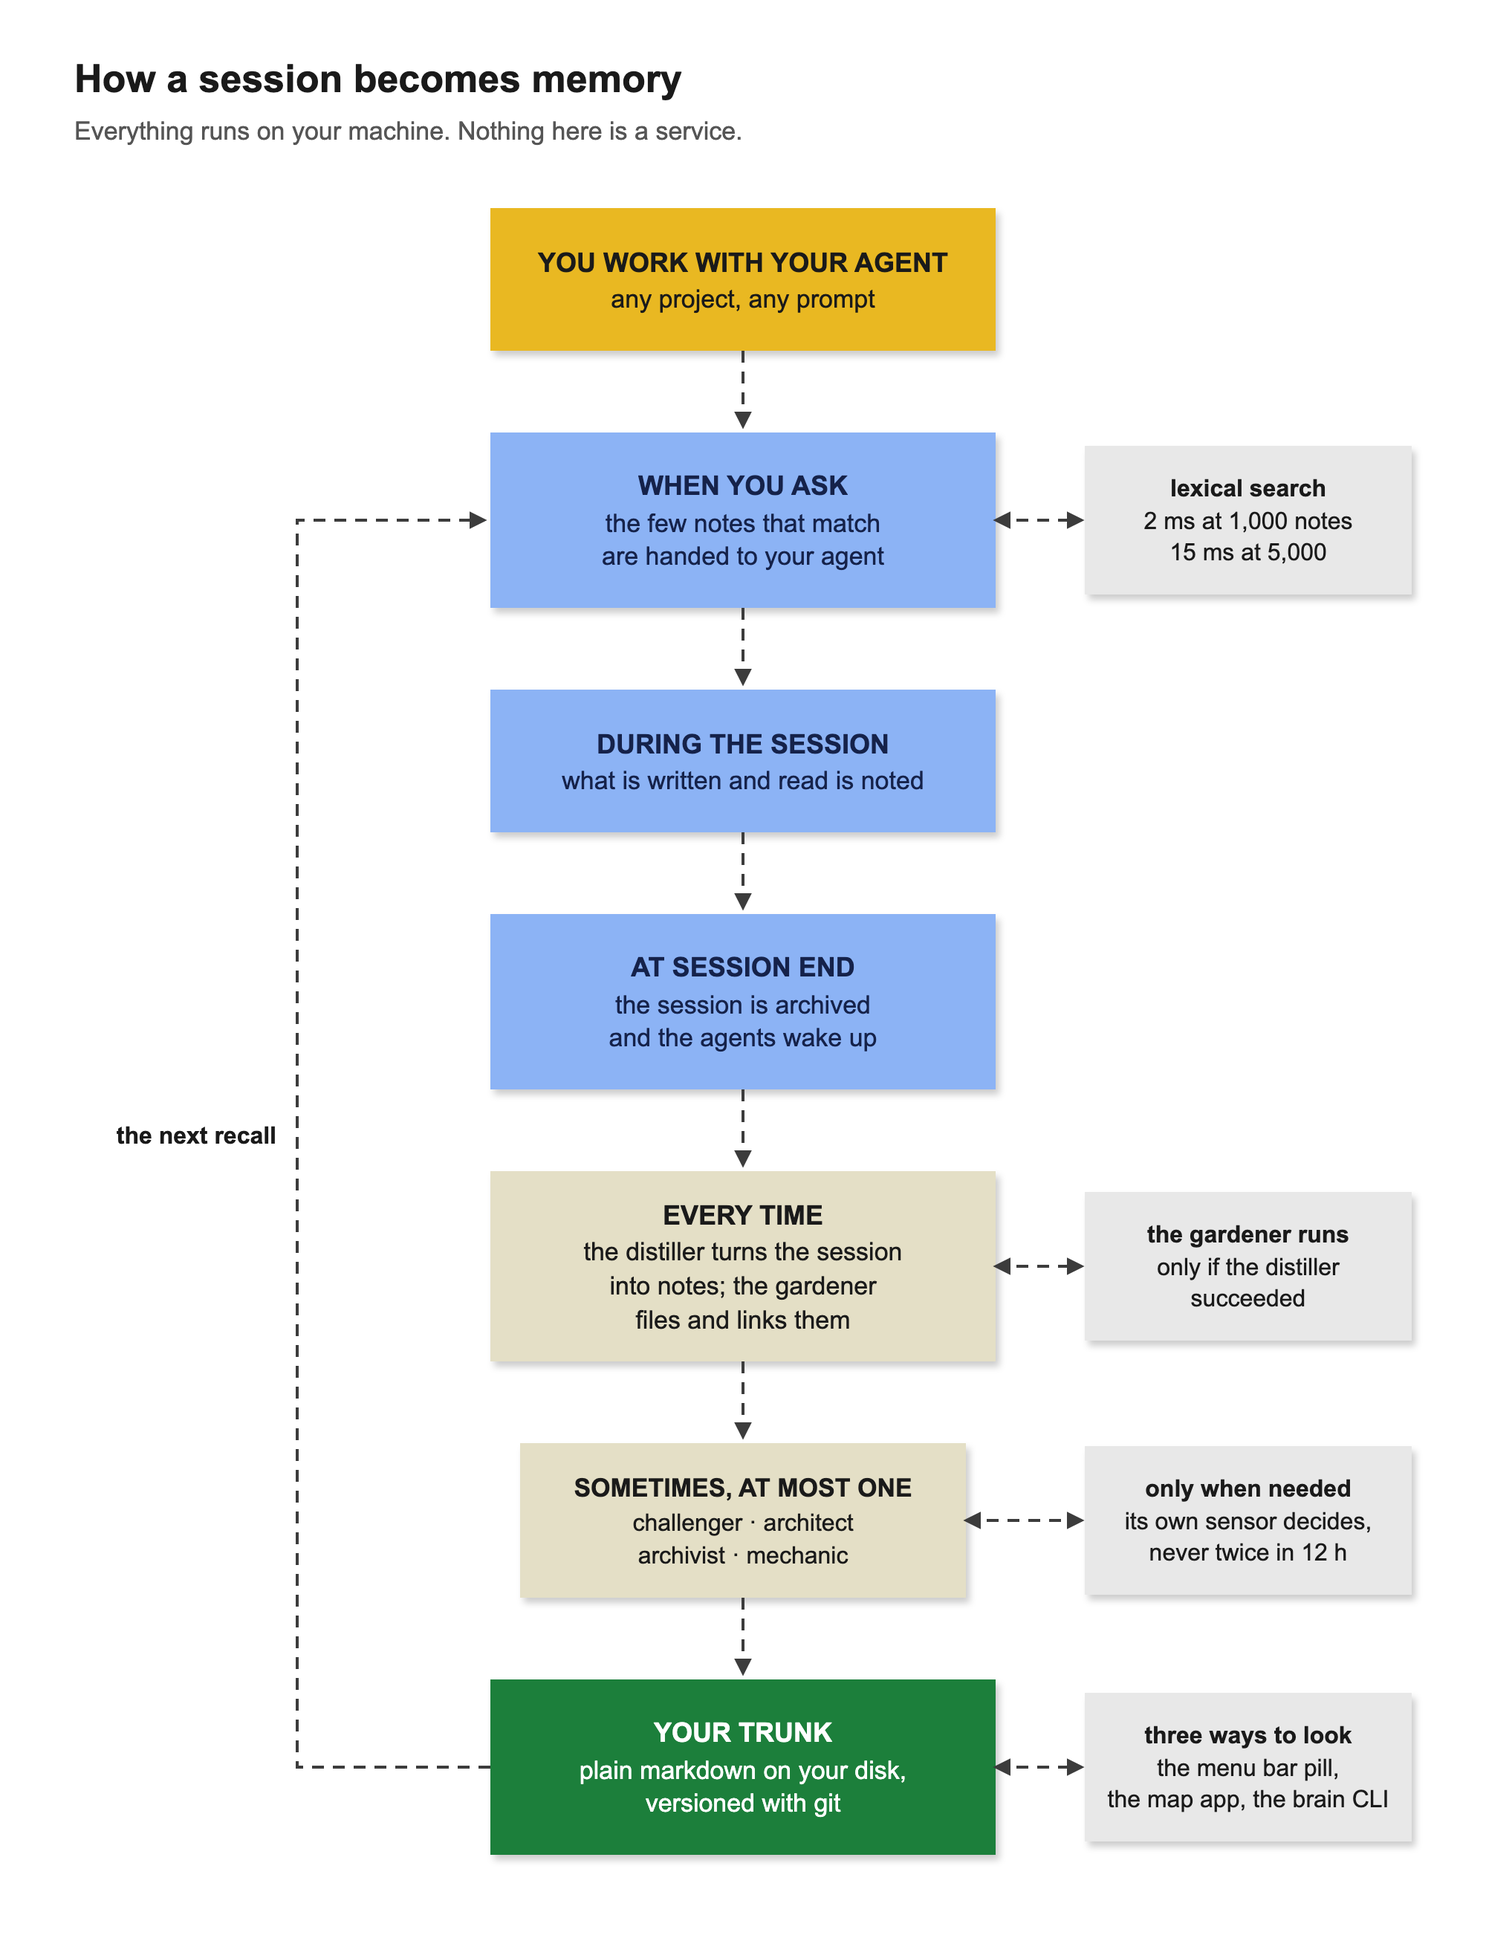
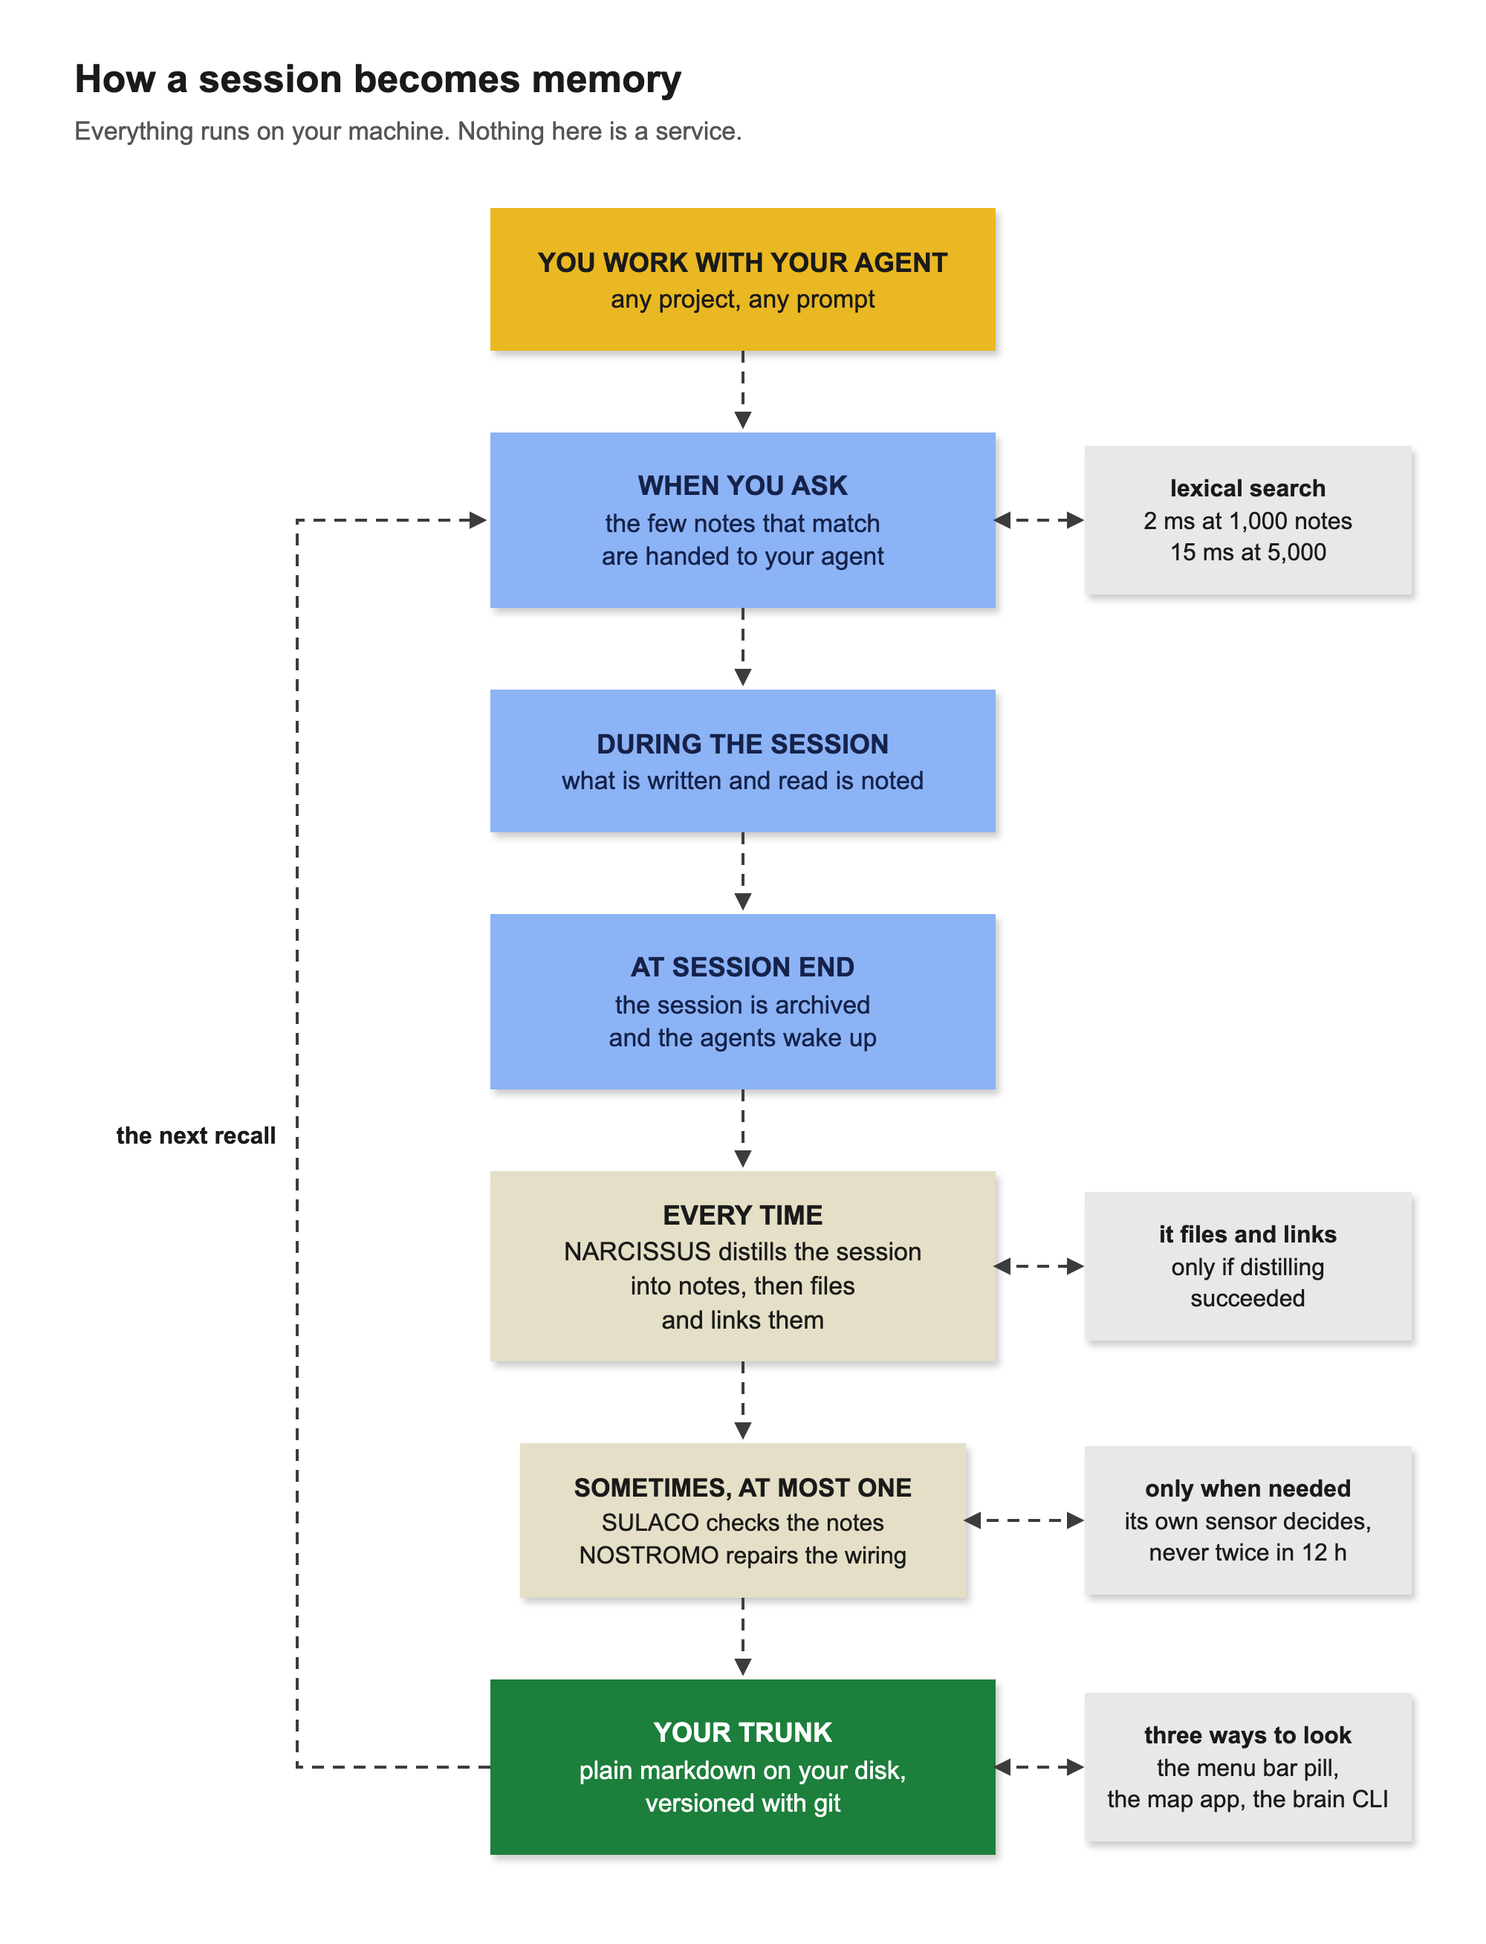
docs: the diagram names the agents by their ships (NARCISSUS, SULACO, NOSTROMO)
The boxes and the README's alt text said distiller, gardener, challenger,
architect, archivist, mechanic: role names the rest of the repo no longer
uses. agents/ calls them by ship, so the diagram does too.

Changed region(s): [[0.372, 0.6193, 0.62, 0.6812], [0.775, 0.6193, 0.899, 0.6812], [0.403, 0.7741, 0.62, 0.805]]

diff --git a/docs/media/src/architecture.html b/docs/media/src/architecture.html
@@ -16,5 +16,5 @@
     </marker>
   </defs>
   <rect width="1000" height="1308" rx="14" fill="#FFFFFF"/>
-  <text x="50" y="62" text-anchor="start" font-size="26" font-weight="700" fill="#1A1A1A">How a session becomes memory</text><text x="50" y="94" text-anchor="start" font-size="17" font-weight="400" fill="#555555">Everything runs on your machine. Nothing here is a service.</text><rect x="330" y="140" width="340" height="96" fill="#E9B824" filter="url(#ombre)"/><text x="500" y="183" text-anchor="middle" font-size="18" font-weight="700" fill="#1A1A1A">YOU WORK WITH YOUR AGENT</text><text x="500" y="207" text-anchor="middle" font-size="17" font-weight="400" fill="#1A1A1A">any project, any prompt</text><path d="M500,236 V287" fill="none" stroke="#3C3C3C" stroke-width="2" stroke-dasharray="8 6" marker-end="url(#pointe)"/><rect x="330" y="291" width="340" height="118" fill="#8CB3F5" filter="url(#ombre)"/><text x="500" y="333" text-anchor="middle" font-size="18" font-weight="700" fill="#15224A">WHEN YOU ASK</text><text x="500" y="358" text-anchor="middle" font-size="17" font-weight="400" fill="#15224A">the few notes that match</text><text x="500" y="380" text-anchor="middle" font-size="17" font-weight="400" fill="#15224A">are handed to your agent</text><rect x="730" y="300" width="220" height="100" fill="#E8E8E8" filter="url(#ombre)"/><text x="840" y="334" text-anchor="middle" font-size="16" font-weight="700" fill="#1A1A1A">lexical search</text><text x="840" y="356" text-anchor="middle" font-size="16" font-weight="400" fill="#1A1A1A">2 ms at 1,000 notes</text><text x="840" y="377" text-anchor="middle" font-size="16" font-weight="400" fill="#1A1A1A">15 ms at 5,000</text><path d="M670,350 H728" fill="none" stroke="#3C3C3C" stroke-width="2" stroke-dasharray="8 6" marker-start="url(#pointe)" marker-end="url(#pointe)"/><path d="M500,409 V460" fill="none" stroke="#3C3C3C" stroke-width="2" stroke-dasharray="8 6" marker-end="url(#pointe)"/><rect x="330" y="464" width="340" height="96" fill="#8CB3F5" filter="url(#ombre)"/><text x="500" y="507" text-anchor="middle" font-size="18" font-weight="700" fill="#15224A">DURING THE SESSION</text><text x="500" y="531" text-anchor="middle" font-size="17" font-weight="400" fill="#15224A">what is written and read is noted</text><path d="M500,560 V611" fill="none" stroke="#3C3C3C" stroke-width="2" stroke-dasharray="8 6" marker-end="url(#pointe)"/><rect x="330" y="615" width="340" height="118" fill="#8CB3F5" filter="url(#ombre)"/><text x="500" y="657" text-anchor="middle" font-size="18" font-weight="700" fill="#15224A">AT SESSION END</text><text x="500" y="682" text-anchor="middle" font-size="17" font-weight="400" fill="#15224A">the session is archived</text><text x="500" y="704" text-anchor="middle" font-size="17" font-weight="400" fill="#15224A">and the agents wake up</text><path d="M500,733 V784" fill="none" stroke="#3C3C3C" stroke-width="2" stroke-dasharray="8 6" marker-end="url(#pointe)"/><rect x="330" y="788" width="340" height="128" fill="#E4DFC6" filter="url(#ombre)"/><text x="500" y="824" text-anchor="middle" font-size="18" font-weight="700" fill="#1A1A1A">EVERY TIME</text><text x="500" y="848" text-anchor="middle" font-size="17" font-weight="400" fill="#1A1A1A">the distiller turns the session</text><text x="500" y="871" text-anchor="middle" font-size="17" font-weight="400" fill="#1A1A1A">into notes; the gardener</text><text x="500" y="894" text-anchor="middle" font-size="17" font-weight="400" fill="#1A1A1A">files and links them</text><rect x="730" y="802" width="220" height="100" fill="#E8E8E8" filter="url(#ombre)"/><text x="840" y="836" text-anchor="middle" font-size="16" font-weight="700" fill="#1A1A1A">the gardener runs</text><text x="840" y="858" text-anchor="middle" font-size="16" font-weight="400" fill="#1A1A1A">only if the distiller</text><text x="840" y="879" text-anchor="middle" font-size="16" font-weight="400" fill="#1A1A1A">succeeded</text><path d="M670,852 H728" fill="none" stroke="#3C3C3C" stroke-width="2" stroke-dasharray="8 6" marker-start="url(#pointe)" marker-end="url(#pointe)"/><path d="M500,916 V967" fill="none" stroke="#3C3C3C" stroke-width="2" stroke-dasharray="8 6" marker-end="url(#pointe)"/><rect x="350" y="971" width="300" height="104" fill="#E4DFC6" filter="url(#ombre)"/><text x="500" y="1007" text-anchor="middle" font-size="17" font-weight="700" fill="#1A1A1A">SOMETIMES, AT MOST ONE</text><text x="500" y="1030" text-anchor="middle" font-size="16" font-weight="400" fill="#1A1A1A">challenger · architect</text><text x="500" y="1052" text-anchor="middle" font-size="16" font-weight="400" fill="#1A1A1A">archivist · mechanic</text><rect x="730" y="973" width="220" height="100" fill="#E8E8E8" filter="url(#ombre)"/><text x="840" y="1007" text-anchor="middle" font-size="16" font-weight="700" fill="#1A1A1A">only when needed</text><text x="840" y="1029" text-anchor="middle" font-size="16" font-weight="400" fill="#1A1A1A">its own sensor decides,</text><text x="840" y="1050" text-anchor="middle" font-size="16" font-weight="400" fill="#1A1A1A">never twice in 12 h</text><path d="M650,1023 H728" fill="none" stroke="#3C3C3C" stroke-width="2" stroke-dasharray="8 6" marker-start="url(#pointe)" marker-end="url(#pointe)"/><path d="M500,1075 V1126" fill="none" stroke="#3C3C3C" stroke-width="2" stroke-dasharray="8 6" marker-end="url(#pointe)"/><rect x="330" y="1130" width="340" height="118" fill="#1B7F3B" filter="url(#ombre)"/><text x="500" y="1172" text-anchor="middle" font-size="18" font-weight="700" fill="#FFFFFF">YOUR TRUNK</text><text x="500" y="1197" text-anchor="middle" font-size="17" font-weight="400" fill="#FFFFFF">plain markdown on your disk,</text><text x="500" y="1219" text-anchor="middle" font-size="17" font-weight="400" fill="#FFFFFF">versioned with git</text><rect x="730" y="1139" width="220" height="100" fill="#E8E8E8" filter="url(#ombre)"/><text x="840" y="1173" text-anchor="middle" font-size="16" font-weight="700" fill="#1A1A1A">three ways to look</text><text x="840" y="1195" text-anchor="middle" font-size="16" font-weight="400" fill="#1A1A1A">the menu bar pill,</text><text x="840" y="1216" text-anchor="middle" font-size="16" font-weight="400" fill="#1A1A1A">the map app, the brain CLI</text><path d="M670,1189 H728" fill="none" stroke="#3C3C3C" stroke-width="2" stroke-dasharray="8 6" marker-start="url(#pointe)" marker-end="url(#pointe)"/><path d="M330,1189 H200 V350 H326" fill="none" stroke="#3C3C3C" stroke-width="2" stroke-dasharray="8 6" marker-end="url(#pointe)"/><text x="186" y="769.5" text-anchor="end" font-size="16" font-weight="700" fill="#1A1A1A">the next recall</text>
+  <text x="50" y="62" text-anchor="start" font-size="26" font-weight="700" fill="#1A1A1A">How a session becomes memory</text><text x="50" y="94" text-anchor="start" font-size="17" font-weight="400" fill="#555555">Everything runs on your machine. Nothing here is a service.</text><rect x="330" y="140" width="340" height="96" fill="#E9B824" filter="url(#ombre)"/><text x="500" y="183" text-anchor="middle" font-size="18" font-weight="700" fill="#1A1A1A">YOU WORK WITH YOUR AGENT</text><text x="500" y="207" text-anchor="middle" font-size="17" font-weight="400" fill="#1A1A1A">any project, any prompt</text><path d="M500,236 V287" fill="none" stroke="#3C3C3C" stroke-width="2" stroke-dasharray="8 6" marker-end="url(#pointe)"/><rect x="330" y="291" width="340" height="118" fill="#8CB3F5" filter="url(#ombre)"/><text x="500" y="333" text-anchor="middle" font-size="18" font-weight="700" fill="#15224A">WHEN YOU ASK</text><text x="500" y="358" text-anchor="middle" font-size="17" font-weight="400" fill="#15224A">the few notes that match</text><text x="500" y="380" text-anchor="middle" font-size="17" font-weight="400" fill="#15224A">are handed to your agent</text><rect x="730" y="300" width="220" height="100" fill="#E8E8E8" filter="url(#ombre)"/><text x="840" y="334" text-anchor="middle" font-size="16" font-weight="700" fill="#1A1A1A">lexical search</text><text x="840" y="356" text-anchor="middle" font-size="16" font-weight="400" fill="#1A1A1A">2 ms at 1,000 notes</text><text x="840" y="377" text-anchor="middle" font-size="16" font-weight="400" fill="#1A1A1A">15 ms at 5,000</text><path d="M670,350 H728" fill="none" stroke="#3C3C3C" stroke-width="2" stroke-dasharray="8 6" marker-start="url(#pointe)" marker-end="url(#pointe)"/><path d="M500,409 V460" fill="none" stroke="#3C3C3C" stroke-width="2" stroke-dasharray="8 6" marker-end="url(#pointe)"/><rect x="330" y="464" width="340" height="96" fill="#8CB3F5" filter="url(#ombre)"/><text x="500" y="507" text-anchor="middle" font-size="18" font-weight="700" fill="#15224A">DURING THE SESSION</text><text x="500" y="531" text-anchor="middle" font-size="17" font-weight="400" fill="#15224A">what is written and read is noted</text><path d="M500,560 V611" fill="none" stroke="#3C3C3C" stroke-width="2" stroke-dasharray="8 6" marker-end="url(#pointe)"/><rect x="330" y="615" width="340" height="118" fill="#8CB3F5" filter="url(#ombre)"/><text x="500" y="657" text-anchor="middle" font-size="18" font-weight="700" fill="#15224A">AT SESSION END</text><text x="500" y="682" text-anchor="middle" font-size="17" font-weight="400" fill="#15224A">the session is archived</text><text x="500" y="704" text-anchor="middle" font-size="17" font-weight="400" fill="#15224A">and the agents wake up</text><path d="M500,733 V784" fill="none" stroke="#3C3C3C" stroke-width="2" stroke-dasharray="8 6" marker-end="url(#pointe)"/><rect x="330" y="788" width="340" height="128" fill="#E4DFC6" filter="url(#ombre)"/><text x="500" y="824" text-anchor="middle" font-size="18" font-weight="700" fill="#1A1A1A">EVERY TIME</text><text x="500" y="848" text-anchor="middle" font-size="17" font-weight="400" fill="#1A1A1A">NARCISSUS distills the session</text><text x="500" y="871" text-anchor="middle" font-size="17" font-weight="400" fill="#1A1A1A">into notes, then files</text><text x="500" y="894" text-anchor="middle" font-size="17" font-weight="400" fill="#1A1A1A">and links them</text><rect x="730" y="802" width="220" height="100" fill="#E8E8E8" filter="url(#ombre)"/><text x="840" y="836" text-anchor="middle" font-size="16" font-weight="700" fill="#1A1A1A">it files and links</text><text x="840" y="858" text-anchor="middle" font-size="16" font-weight="400" fill="#1A1A1A">only if distilling</text><text x="840" y="879" text-anchor="middle" font-size="16" font-weight="400" fill="#1A1A1A">succeeded</text><path d="M670,852 H728" fill="none" stroke="#3C3C3C" stroke-width="2" stroke-dasharray="8 6" marker-start="url(#pointe)" marker-end="url(#pointe)"/><path d="M500,916 V967" fill="none" stroke="#3C3C3C" stroke-width="2" stroke-dasharray="8 6" marker-end="url(#pointe)"/><rect x="350" y="971" width="300" height="104" fill="#E4DFC6" filter="url(#ombre)"/><text x="500" y="1007" text-anchor="middle" font-size="17" font-weight="700" fill="#1A1A1A">SOMETIMES, AT MOST ONE</text><text x="500" y="1030" text-anchor="middle" font-size="16" font-weight="400" fill="#1A1A1A">SULACO checks the notes</text><text x="500" y="1052" text-anchor="middle" font-size="16" font-weight="400" fill="#1A1A1A">NOSTROMO repairs the wiring</text><rect x="730" y="973" width="220" height="100" fill="#E8E8E8" filter="url(#ombre)"/><text x="840" y="1007" text-anchor="middle" font-size="16" font-weight="700" fill="#1A1A1A">only when needed</text><text x="840" y="1029" text-anchor="middle" font-size="16" font-weight="400" fill="#1A1A1A">its own sensor decides,</text><text x="840" y="1050" text-anchor="middle" font-size="16" font-weight="400" fill="#1A1A1A">never twice in 12 h</text><path d="M650,1023 H728" fill="none" stroke="#3C3C3C" stroke-width="2" stroke-dasharray="8 6" marker-start="url(#pointe)" marker-end="url(#pointe)"/><path d="M500,1075 V1126" fill="none" stroke="#3C3C3C" stroke-width="2" stroke-dasharray="8 6" marker-end="url(#pointe)"/><rect x="330" y="1130" width="340" height="118" fill="#1B7F3B" filter="url(#ombre)"/><text x="500" y="1172" text-anchor="middle" font-size="18" font-weight="700" fill="#FFFFFF">YOUR TRUNK</text><text x="500" y="1197" text-anchor="middle" font-size="17" font-weight="400" fill="#FFFFFF">plain markdown on your disk,</text><text x="500" y="1219" text-anchor="middle" font-size="17" font-weight="400" fill="#FFFFFF">versioned with git</text><rect x="730" y="1139" width="220" height="100" fill="#E8E8E8" filter="url(#ombre)"/><text x="840" y="1173" text-anchor="middle" font-size="16" font-weight="700" fill="#1A1A1A">three ways to look</text><text x="840" y="1195" text-anchor="middle" font-size="16" font-weight="400" fill="#1A1A1A">the menu bar pill,</text><text x="840" y="1216" text-anchor="middle" font-size="16" font-weight="400" fill="#1A1A1A">the map app, the brain CLI</text><path d="M670,1189 H728" fill="none" stroke="#3C3C3C" stroke-width="2" stroke-dasharray="8 6" marker-start="url(#pointe)" marker-end="url(#pointe)"/><path d="M330,1189 H200 V350 H326" fill="none" stroke="#3C3C3C" stroke-width="2" stroke-dasharray="8 6" marker-end="url(#pointe)"/><text x="186" y="769.5" text-anchor="end" font-size="16" font-weight="700" fill="#1A1A1A">the next recall</text>
 </svg>

diff --git a/docs/media/src/architecture.py b/docs/media/src/architecture.py
@@ -101,13 +101,13 @@ y += 118 + ETAGE
 fleche(f"M500,{y - ETAGE} V{y - 4}")
 boite(CX, y, CW, 128, BEIGE, [
     {"t": "EVERY TIME", "s": 18, "w": 700},
-    {"t": "the distiller turns the session", "s": 17},
-    {"t": "into notes; the gardener", "s": 17},
-    {"t": "files and links them", "s": 17},
+    {"t": "NARCISSUS distills the session", "s": 17},
+    {"t": "into notes, then files", "s": 17},
+    {"t": "and links them", "s": 17},
 ])
 boite(NX, y + 14, NW, 100, GRIS, [
-    {"t": "the gardener runs", "s": 16, "w": 700},
-    {"t": "only if the distiller", "s": 16},
+    {"t": "it files and links", "s": 16, "w": 700},
+    {"t": "only if distilling", "s": 16},
     {"t": "succeeded", "s": 16},
 ])
 fleche(f"M670,{y + 64} H{NX - 2}", double=True)
@@ -116,8 +116,8 @@ y += 128 + ETAGE
 fleche(f"M500,{y - ETAGE} V{y - 4}")
 boite(CX + 20, y, CW - 40, 104, BEIGE, [
     {"t": "SOMETIMES, AT MOST ONE", "s": 17, "w": 700},
-    {"t": "challenger · architect", "s": 16},
-    {"t": "archivist · mechanic", "s": 16},
+    {"t": "SULACO checks the notes", "s": 16},
+    {"t": "NOSTROMO repairs the wiring", "s": 16},
 ])
 boite(NX, y + 2, NW, 100, GRIS, [
     {"t": "only when needed", "s": 16, "w": 700},

diff --git a/README.md b/README.md
@@ -116,7 +116,7 @@ renamed agents, and recall on request. Your notes are not affected.
 ### From a session to a note
 
 <p align="center">
-  <img src="docs/media/architecture.png" alt="How a session becomes memory, top to bottom. You work with your agent, in any project. When you ask — brain recall, ?brain, or a plain request — the few notes that match are handed to your agent: a lexical search, 2 ms at 1,000 notes and 15 ms at 5,000. During the session, what is written and read is noted. At session end, the session is archived and the agents wake up. Every time, the distiller turns the session into notes and the gardener files and links them; the gardener runs only if the distiller succeeded. Sometimes, at most one of the challenger, architect, archivist or mechanic runs, only when its own sensor decides, never twice in 12 hours. Everything lands in your trunk — plain markdown on your disk, versioned with git — which feeds the next recall. Three ways to look at it: the menu bar pill, the map app and the brain CLI." width="880">
+  <img src="docs/media/architecture.png" alt="How a session becomes memory, top to bottom. You work with your agent, in any project. When you ask — brain recall, ?brain, or a plain request — the few notes that match are handed to your agent: a lexical search, 2 ms at 1,000 notes and 15 ms at 5,000. During the session, what is written and read is noted. At session end, the session is archived and the agents wake up. Every time, NARCISSUS distills the session into notes, then files and links them; it files and links only if distilling succeeded. Sometimes, at most one ship runs — SULACO checks the notes, NOSTROMO repairs the wiring — only when its own sensor decides, never twice in 12 hours. Everything lands in your trunk — plain markdown on your disk, versioned with git — which feeds the next recall. Three ways to look at it: the menu bar pill, the map app and the brain CLI." width="880">
 </p>
 
 ### The idea holding it all together
